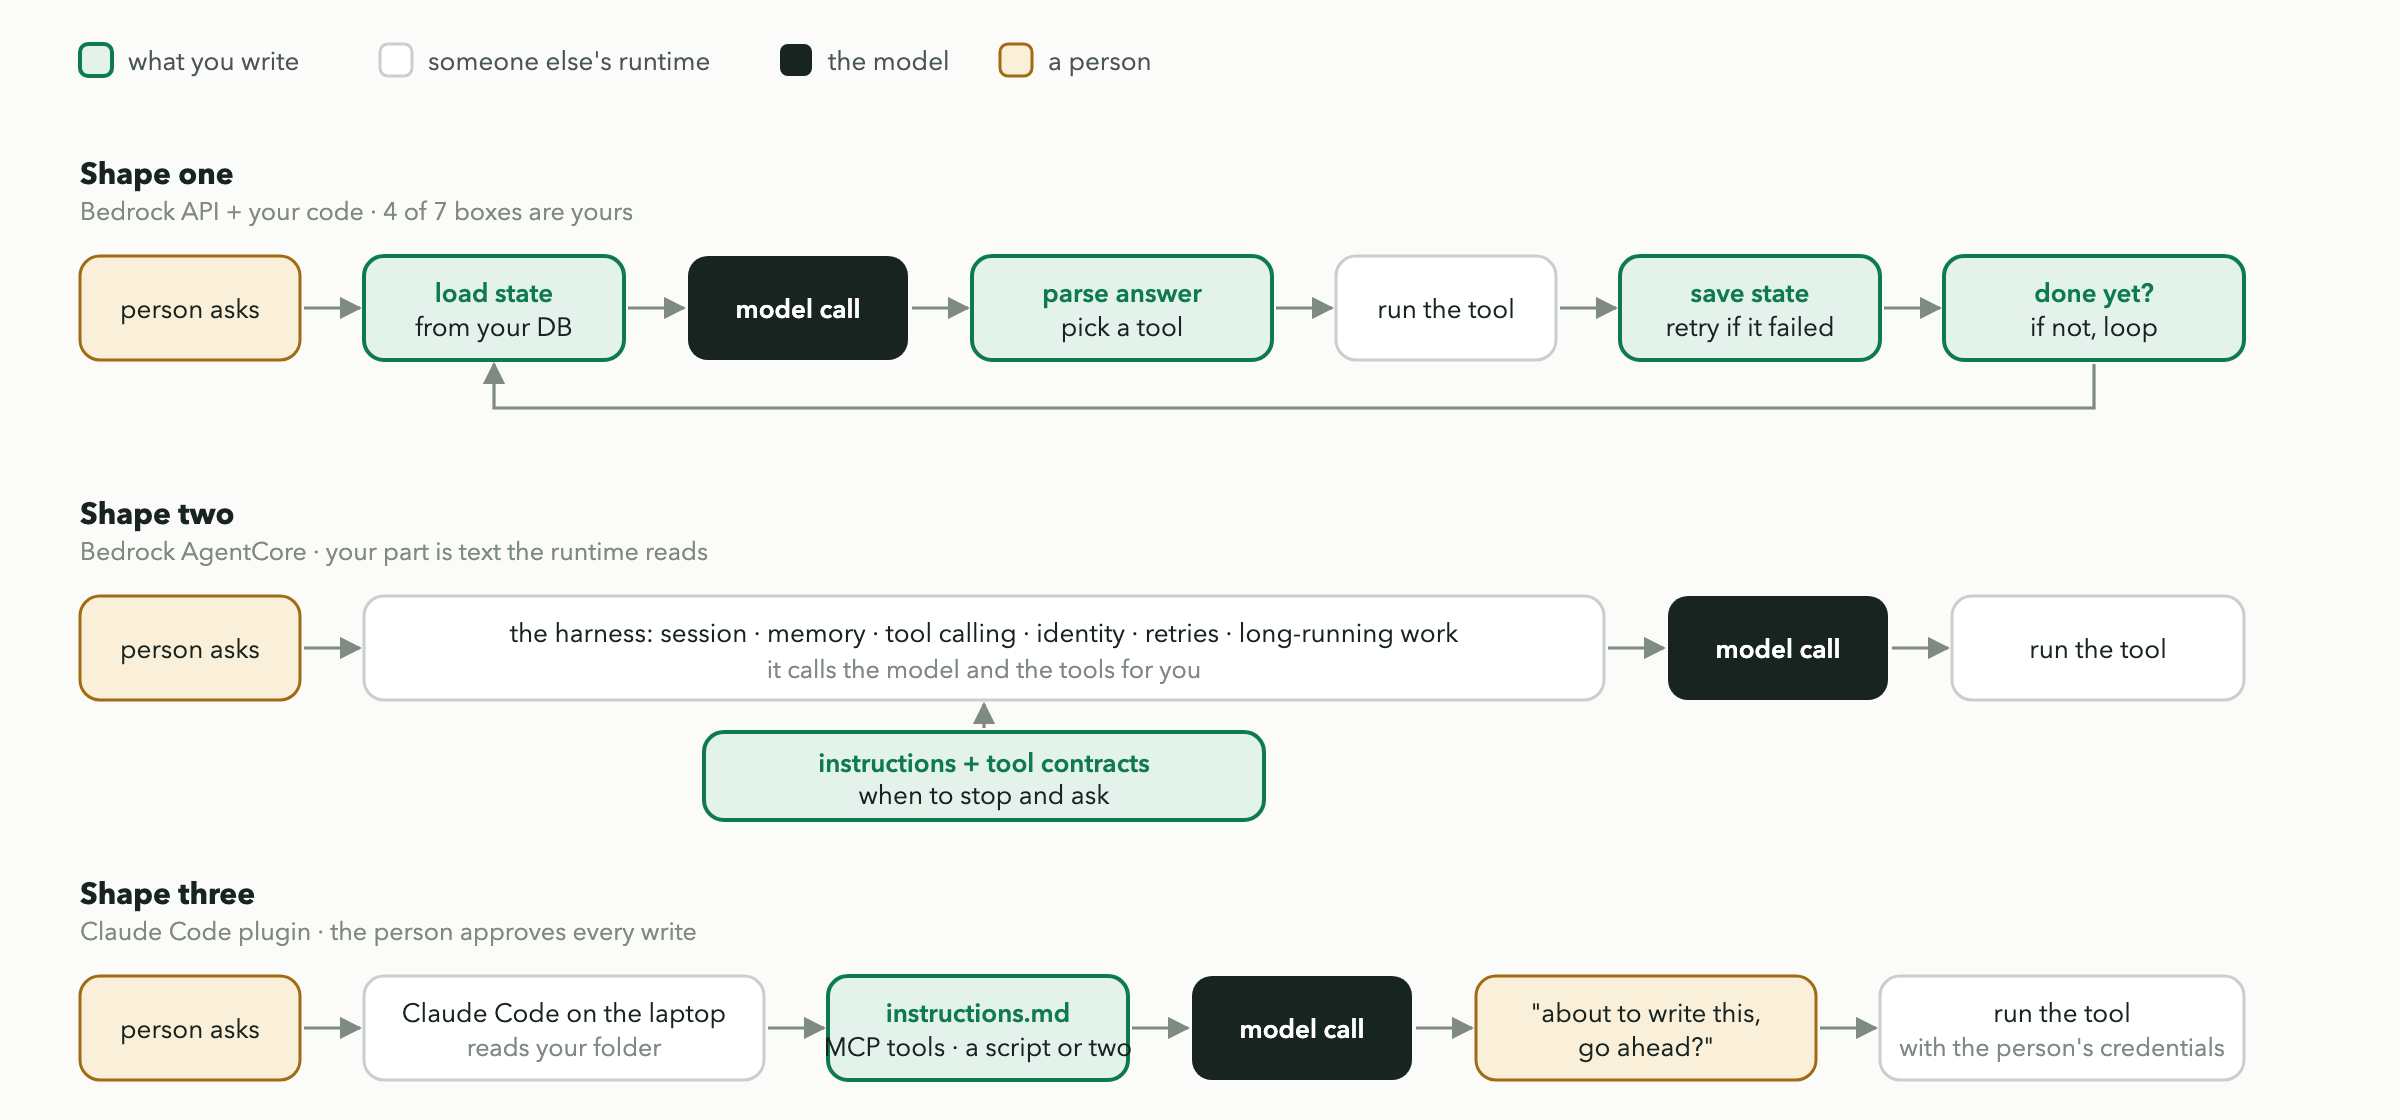
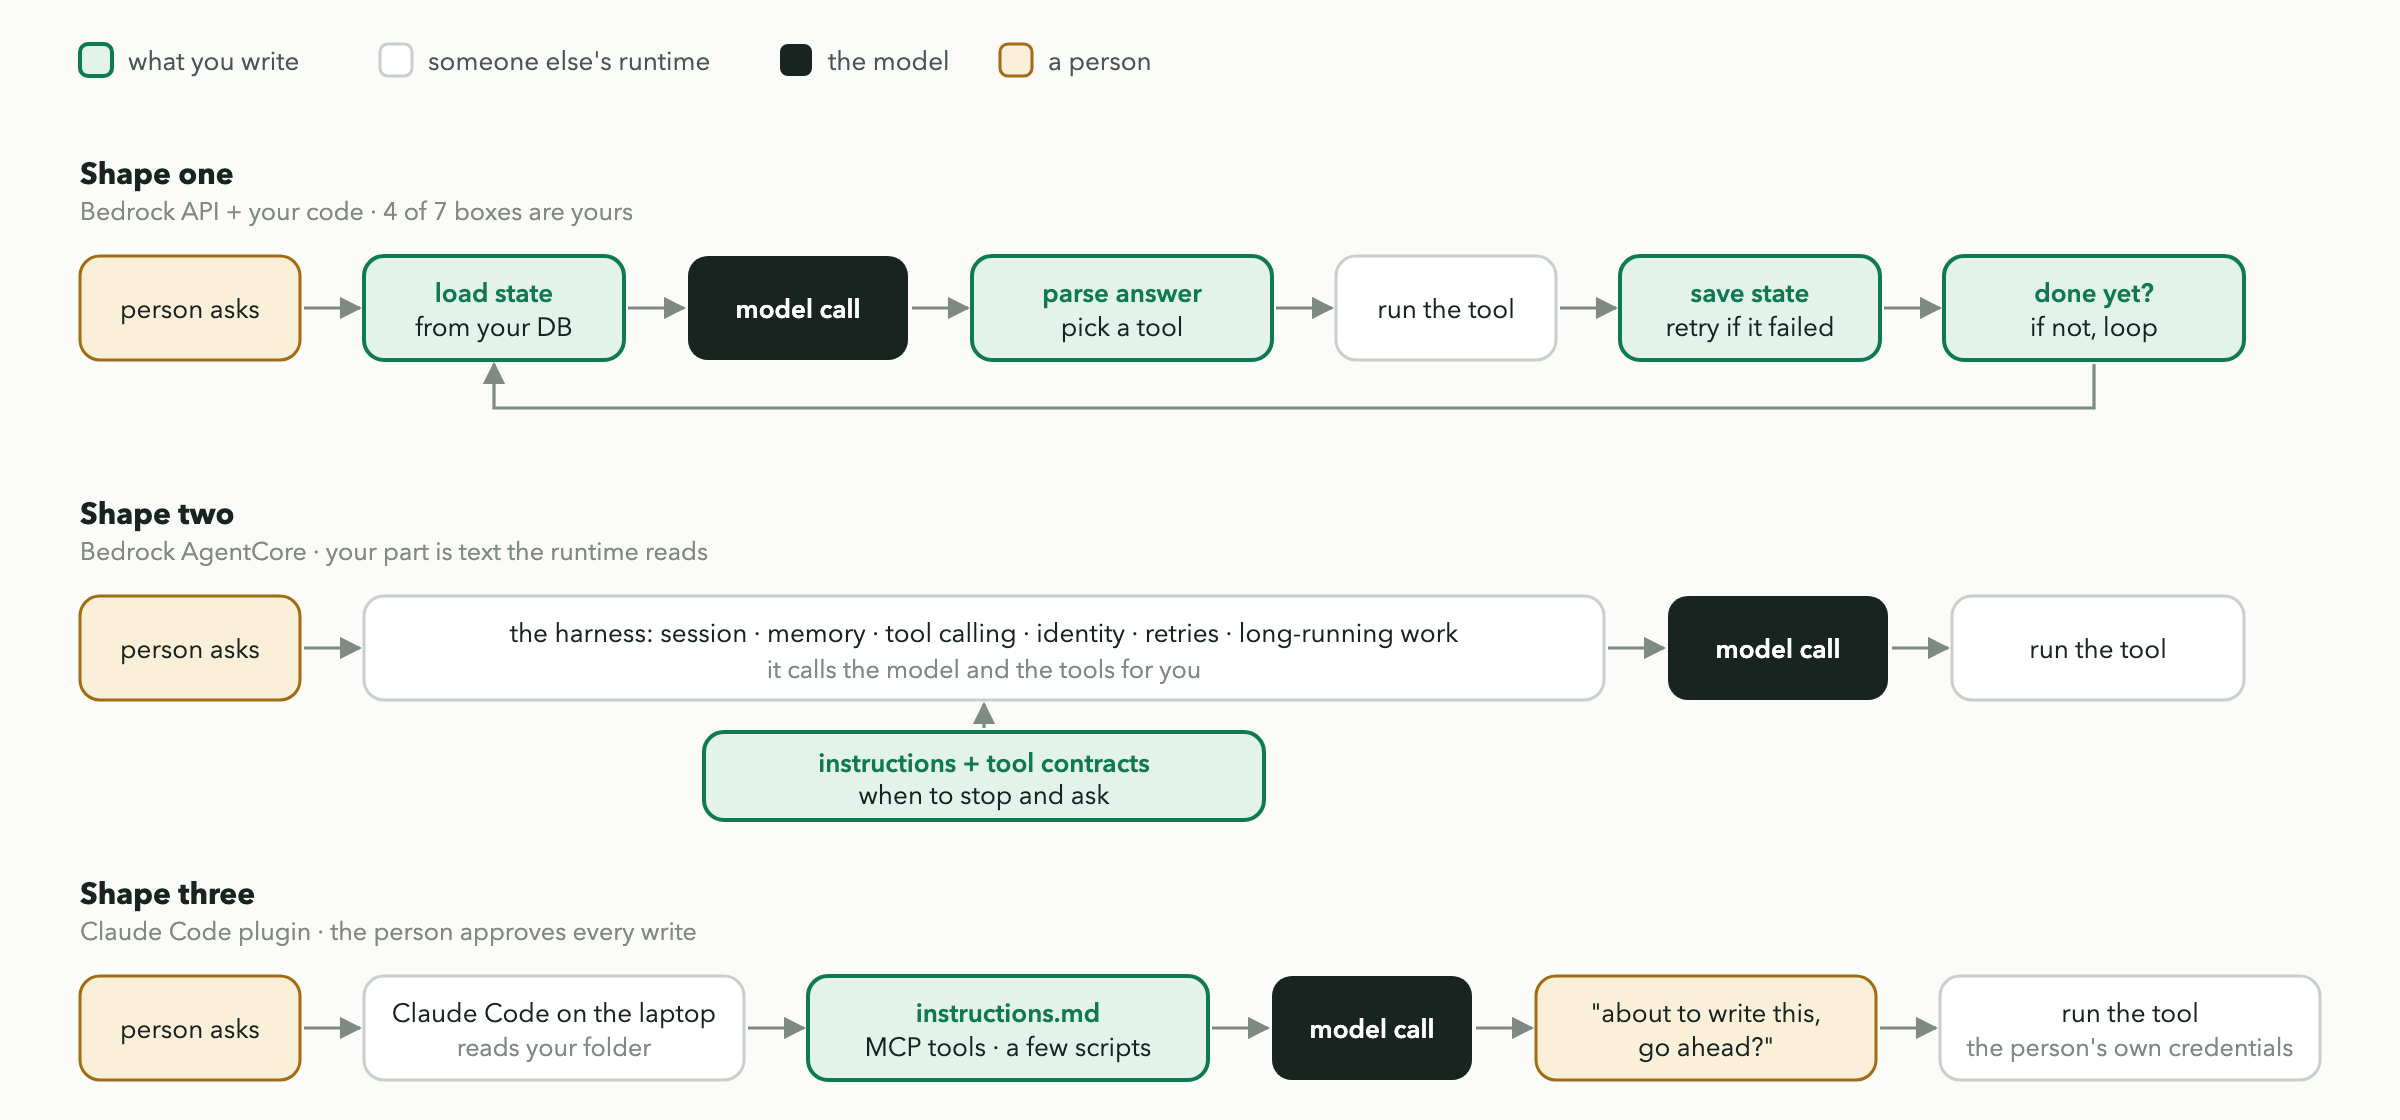
Diagrams: widen row three so labels fit; generalise the first-system examples

Changed region(s): [[0.1562, 0.8438, 0.9688, 0.9688]]

diff --git a/src/content/posts/en/three-shapes-of-an-agent.md b/src/content/posts/en/three-shapes-of-an-agent.md
@@ -17,7 +17,7 @@ This is the short version of what changed, and what I would keep.
 
 ## Shape one: a loop around the model API
 
-The first system was a set of assistants living in Slack. One read a requirements document and pointed out gaps. One drafted a technical plan. One opened pull requests. Under the hood every one of them was the same thing: a stateless call to a Claude model through the Bedrock API, wrapped in code we wrote ourselves.
+The first system was a handful of assistants living in Slack, each handling one kind of task: reading documents, drafting plans, changing code. Under the hood every one of them was the same thing: a stateless call to a Claude model through the Bedrock API, wrapped in code we wrote ourselves.
 
 Stateless is the important word. The model remembers nothing between calls, cannot run a tool, and stops whenever it stops. So the code around it had to supply everything else:
 
@@ -40,7 +40,7 @@ The cost was a boundary. When something went wrong we debugged through AWS abstr
 
 ## Shape three: a folder of text files
 
-The third one I would not have predicted. An agent that helps engineers plan and write tests, shipped as a Claude Code plugin, so it runs inside the coding assistant they already had open. No service behind it, no queue. A folder of markdown files with instructions, a list of MCP tools it may call, and a couple of scripts. The runtime is Claude Code on the person's laptop. The credentials are the person's own.
+The third one I would not have predicted. An agent that helps engineers write tests, shipped as a Claude Code plugin, so it runs inside the coding assistant they already had open. No service behind it, no queue. A folder of markdown files with instructions, a list of MCP tools it may call, and a couple of scripts. The runtime is Claude Code on the person's laptop. The credentials are the person's own.
 
 That changes what "deploy" means. A new version is a version bump in the plugin marketplace. Permissions are whatever the user already has, no more. And because a person is sitting right there, the agent can stop and ask before every write to a shared system, which for shared systems is exactly the behaviour you want.
 

diff --git a/src/content/posts/zh/three-shapes-of-an-agent.md b/src/content/posts/zh/three-shapes-of-an-agent.md
@@ -19,7 +19,7 @@ cover: /img/three-shapes/cover.zh.svg
 
 刚开始做的时候，我对 Agent 的理解就是一个 while 循环：调模型 → 看回答 → 决定下一步 → 再调。
 
-第一套系统是挂在 Slack 里的一组助手。读 PRD 挑漏洞的、起草技术方案的、直接开 PR 的，各干各的。但底层其实是同一个东西：通过 Bedrock API 对 Claude 的一次无状态调用，外面裹着我们自己写的一层代码。
+第一套系统是挂在 Slack 里的一组助手，各管一类任务：读文档、写方案、改代码。但底层其实是同一个东西：通过 Bedrock API 对 Claude 的一次无状态调用，外面裹着我们自己写的一层代码。
 
 问题就出在"无状态"三个字。模型两次调用之间什么都不记得，不会自己调工具，想停就停。它不管的事，全得我们自己兜底：
 
@@ -44,7 +44,7 @@ cover: /img/three-shapes/cover.zh.svg
 
 第三种是我之前完全没料到的。
 
-一个帮工程师做测试规划、写测试代码的 Agent，没有部署成服务，而是做成了 Claude Code 插件，直接跑在大家本来就开着的编码助手里。没有服务器，没有队列。整个 Agent 就是一个文件夹：几份 markdown 写指令，一张它允许调用的 MCP 工具清单，再加一两个脚本。runtime 就是用户笔记本上的 Claude Code，凭据就是用户自己的。
+一个帮工程师写测试的 Agent，没有部署成服务，而是做成了 Claude Code 插件，直接跑在大家本来就开着的编码助手里。没有服务器，没有队列。整个 Agent 就是一个文件夹：几份 markdown 写指令，一张它允许调用的 MCP 工具清单，再加一两个脚本。runtime 就是用户笔记本上的 Claude Code，凭据就是用户自己的。
 
 "部署"的定义随之改变。发新版就是在插件 marketplace 里升个版本号。权限不用单独申请，用户有什么它就有什么，一分不多。最关键的是人就坐在旁边，所以它在每一次写入共享系统之前都可以停下来问一句"这样改，可以吗"。对共享系统来说，这正是你想要的。
 
